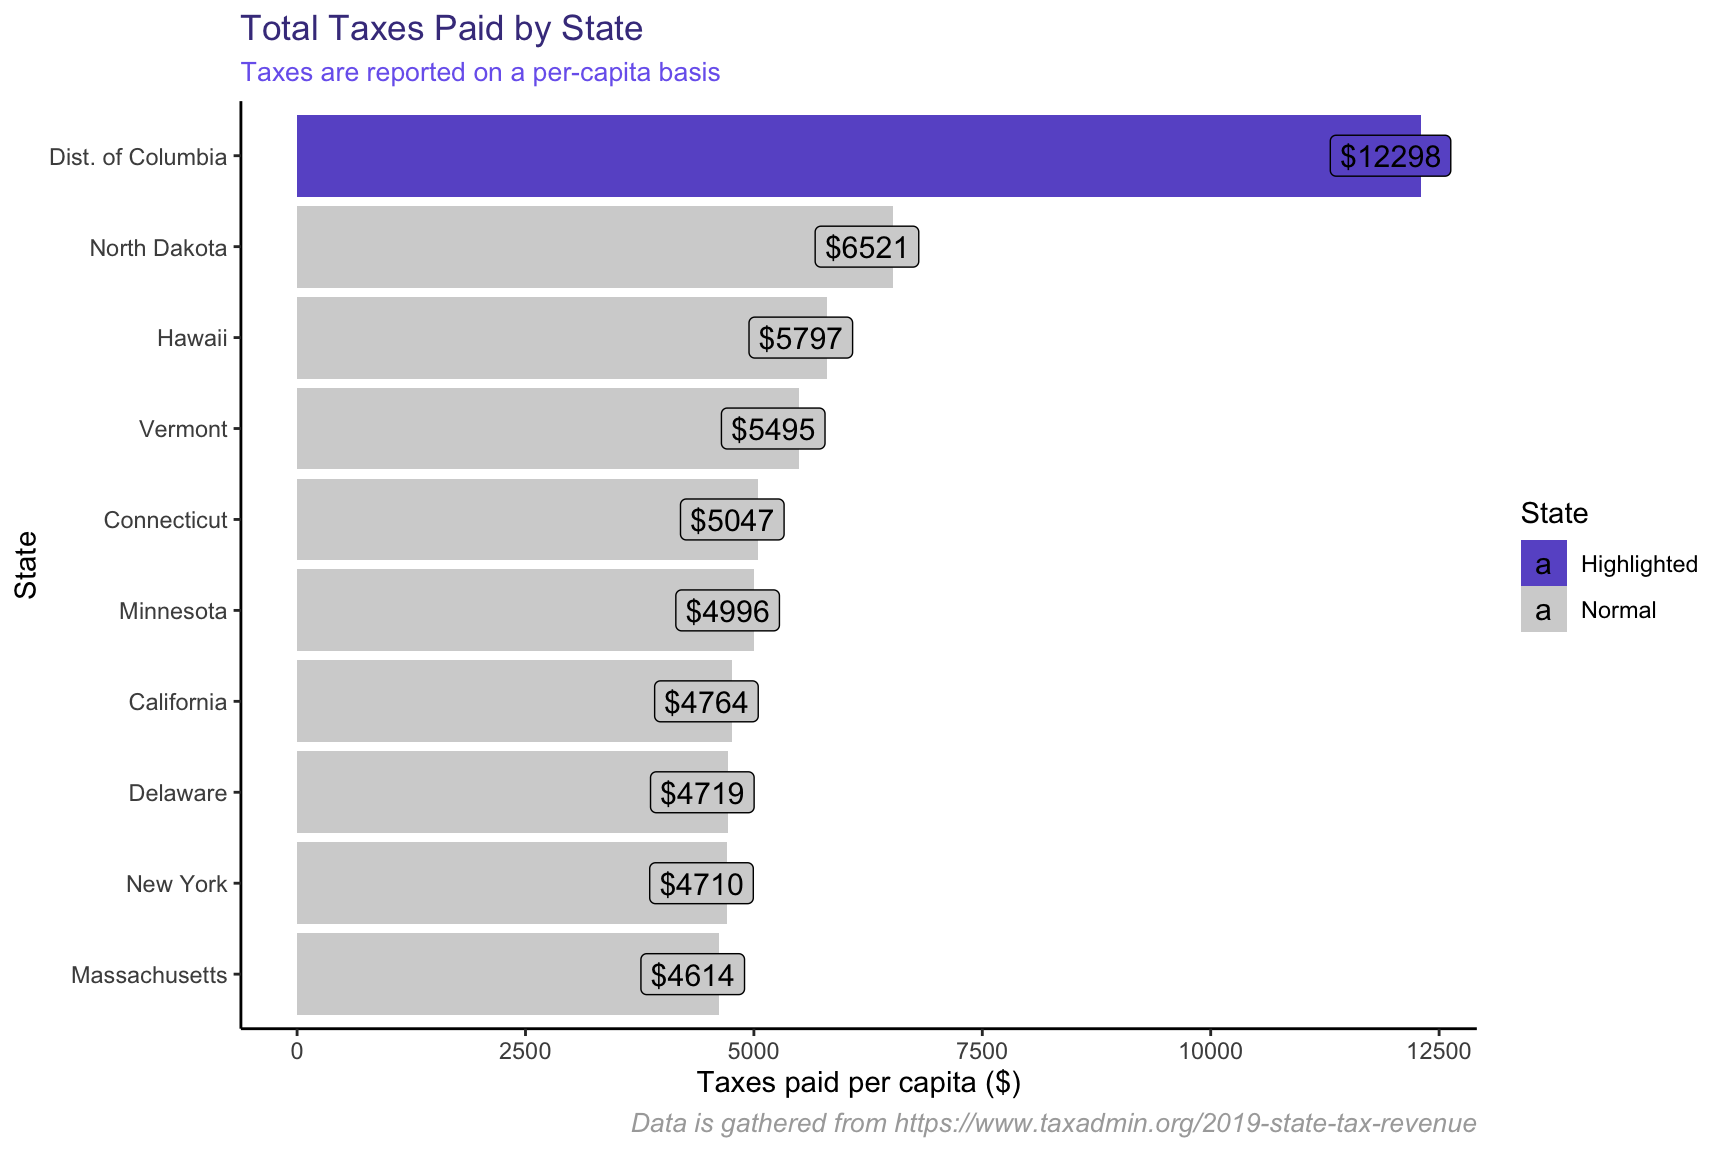
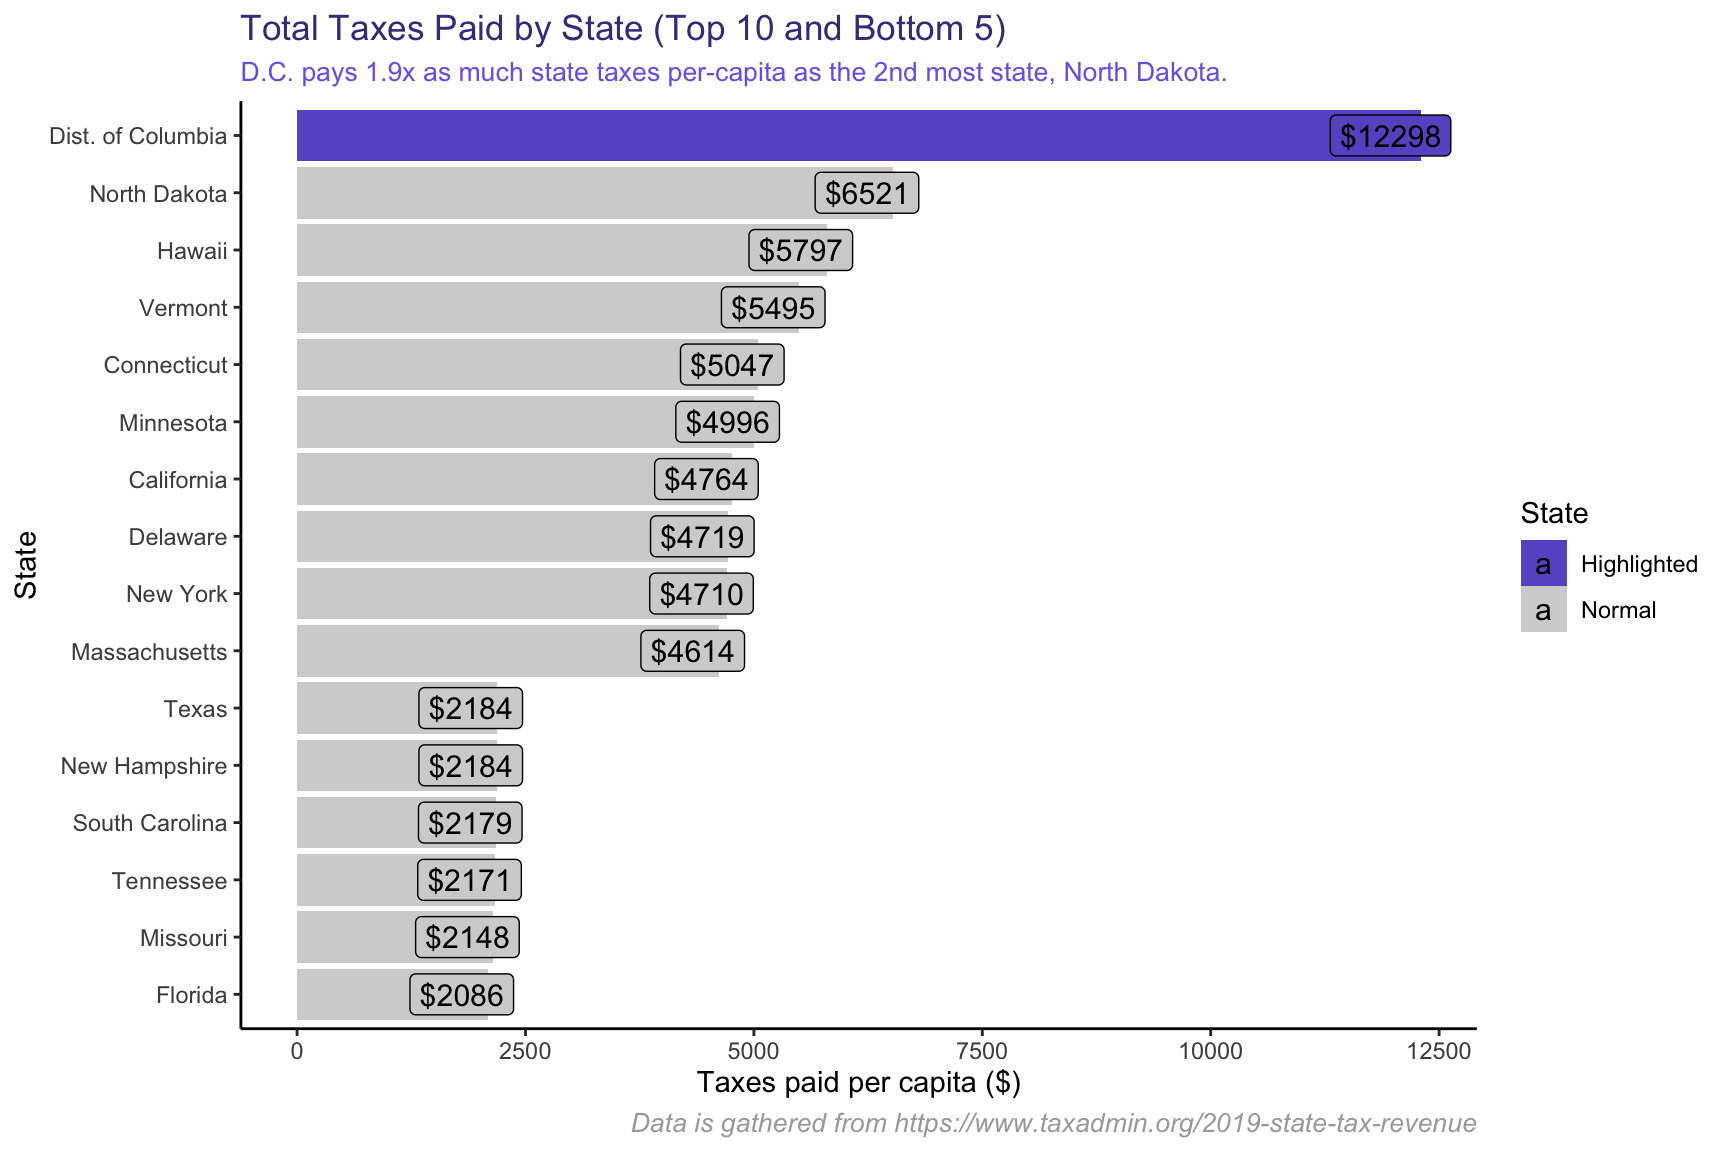
Population Over Time Graph

diff --git a/content/post/2021-07-16-dc-statehood/index.en.html b/content/post/2021-07-16-dc-statehood/index.en.html
@@ -1,5 +1,5 @@
 ---
-title: 'The Case for D.C. Statehood: An Analytics Approach'
+title: 'The Case for D.C. Statehood: An Analytic Approach'
 author: Justin S.
 date: '2021-07-16'
 slug: dc-statehood
@@ -32,6 +32,30 @@ draft: false
 - Political ploy by the Democrats
 - If it were a state it would have the power to control Congress
 - Paying taxes</p>
+<div id="population" class="section level2">
+<h2>Population</h2>
+<p>A common argument against D.C. Statehood is its size. Claiming that it’s just a medium-sized city opponents of D.C. Statehood often argue that it’s really just a subcomponent of what every other state has: one large city; and is thus missing the other components that other states have (i.e. more suburban/rural areas outside of its large cities).</p>
+<p>Let’s take a look at D.C.’s population compared to other states.</p>
+<pre><code>## # A tibble: 52 x 9
+##     rank state x2021_population growth_2021 x2018_population x2010_census
+##    &lt;int&gt; &lt;chr&gt;            &lt;int&gt; &lt;chr&gt;       &lt;chr&gt;                   &lt;int&gt;
+##  1     1 Cali…         39613493 0.38%       39,461,588           37319502
+##  2     2 Texas         29730311 3.85%       28,628,666           25241971
+##  3     3 Flor…         21944577 3.30%       21,244,317           18845537
+##  4     4 New …         19299981 -1.18%      19,530,351           19399878
+##  5     5 Penn…         12804123 0.03%       12,800,922           12711160
+##  6     6 Illi…         12569321 -1.21%      12,723,071           12840503
+##  7     7 Ohio          11714618 0.33%       11,676,341           11539336
+##  8     8 Geor…         10830007 3.03%       10,511,131            9711881
+##  9     9 Nort…         10701022 3.08%       10,381,615            9574323
+## 10    10 Mich…          9992427 0.08%       9,984,072             9877510
+## # … with 42 more rows, and 3 more variables: growth_since_2010 &lt;chr&gt;,
+## #   percent_of_us &lt;chr&gt;, density_mi2 &lt;chr&gt;</code></pre>
+<p><img src="{{< blogdown/postref >}}index.en_files/figure-html/plot_pop_info-1.png" width="864" style="display: block; margin: auto;" /></p>
+<p>We can see that D.C. ranks towards the bottom of states in terms of population, although not the smallest state. Let’s see how this compares to data from the 2010 Census.</p>
+<p><img src="{{< blogdown/postref >}}index.en_files/figure-html/pop_line_chart-1.png" width="864" style="display: block; margin: auto;" /></p>
+<p><img src="{{< blogdown/postref >}}index.en_files/figure-html/compare_pop_info-1.png" width="864" style="display: block; margin: auto;" /></p>
+</div>
 <div id="taxes" class="section level2">
 <h2>Taxes</h2>
 <p>If you ever drive around D.C. and look closely, you’ll notice that every license plate is surrounded with the words “NO TAXATION WITHOUT REPRESENTATION”. The notion that this country was founded on 245 years ago is one that doesn’t hold true in its own capital.</p>
@@ -1084,8 +1108,9 @@ Wyoming
 </tbody>
 </table>
 </div>
-<p>Now we’ll plot the tax paid per state to see how DC compares.</p>
+<p>Now we’ll plot the state tax <em>(note: not Federal tax)</em> paid per state to see how DC compares.</p>
 <p><img src="{{< blogdown/postref >}}index.en_files/figure-html/plot_tax_info-1.png" width="864" style="display: block; margin: auto;" /></p>
+<p>Astounding. Compared to every other state, D.C. contributes significantly more to State taxes on a per-capita basis. Per-capita is often the best measure to look at as it shows the average revenue collected per person. Compared to the second-most state, D.C. contributes <strong>1.9x</strong> as much Federal taxes.</p>
 </div>
 <div id="is-annexation-into-mdva-possible" class="section level2">
 <h2>Is Annexation into MD/VA Possible?</h2>
